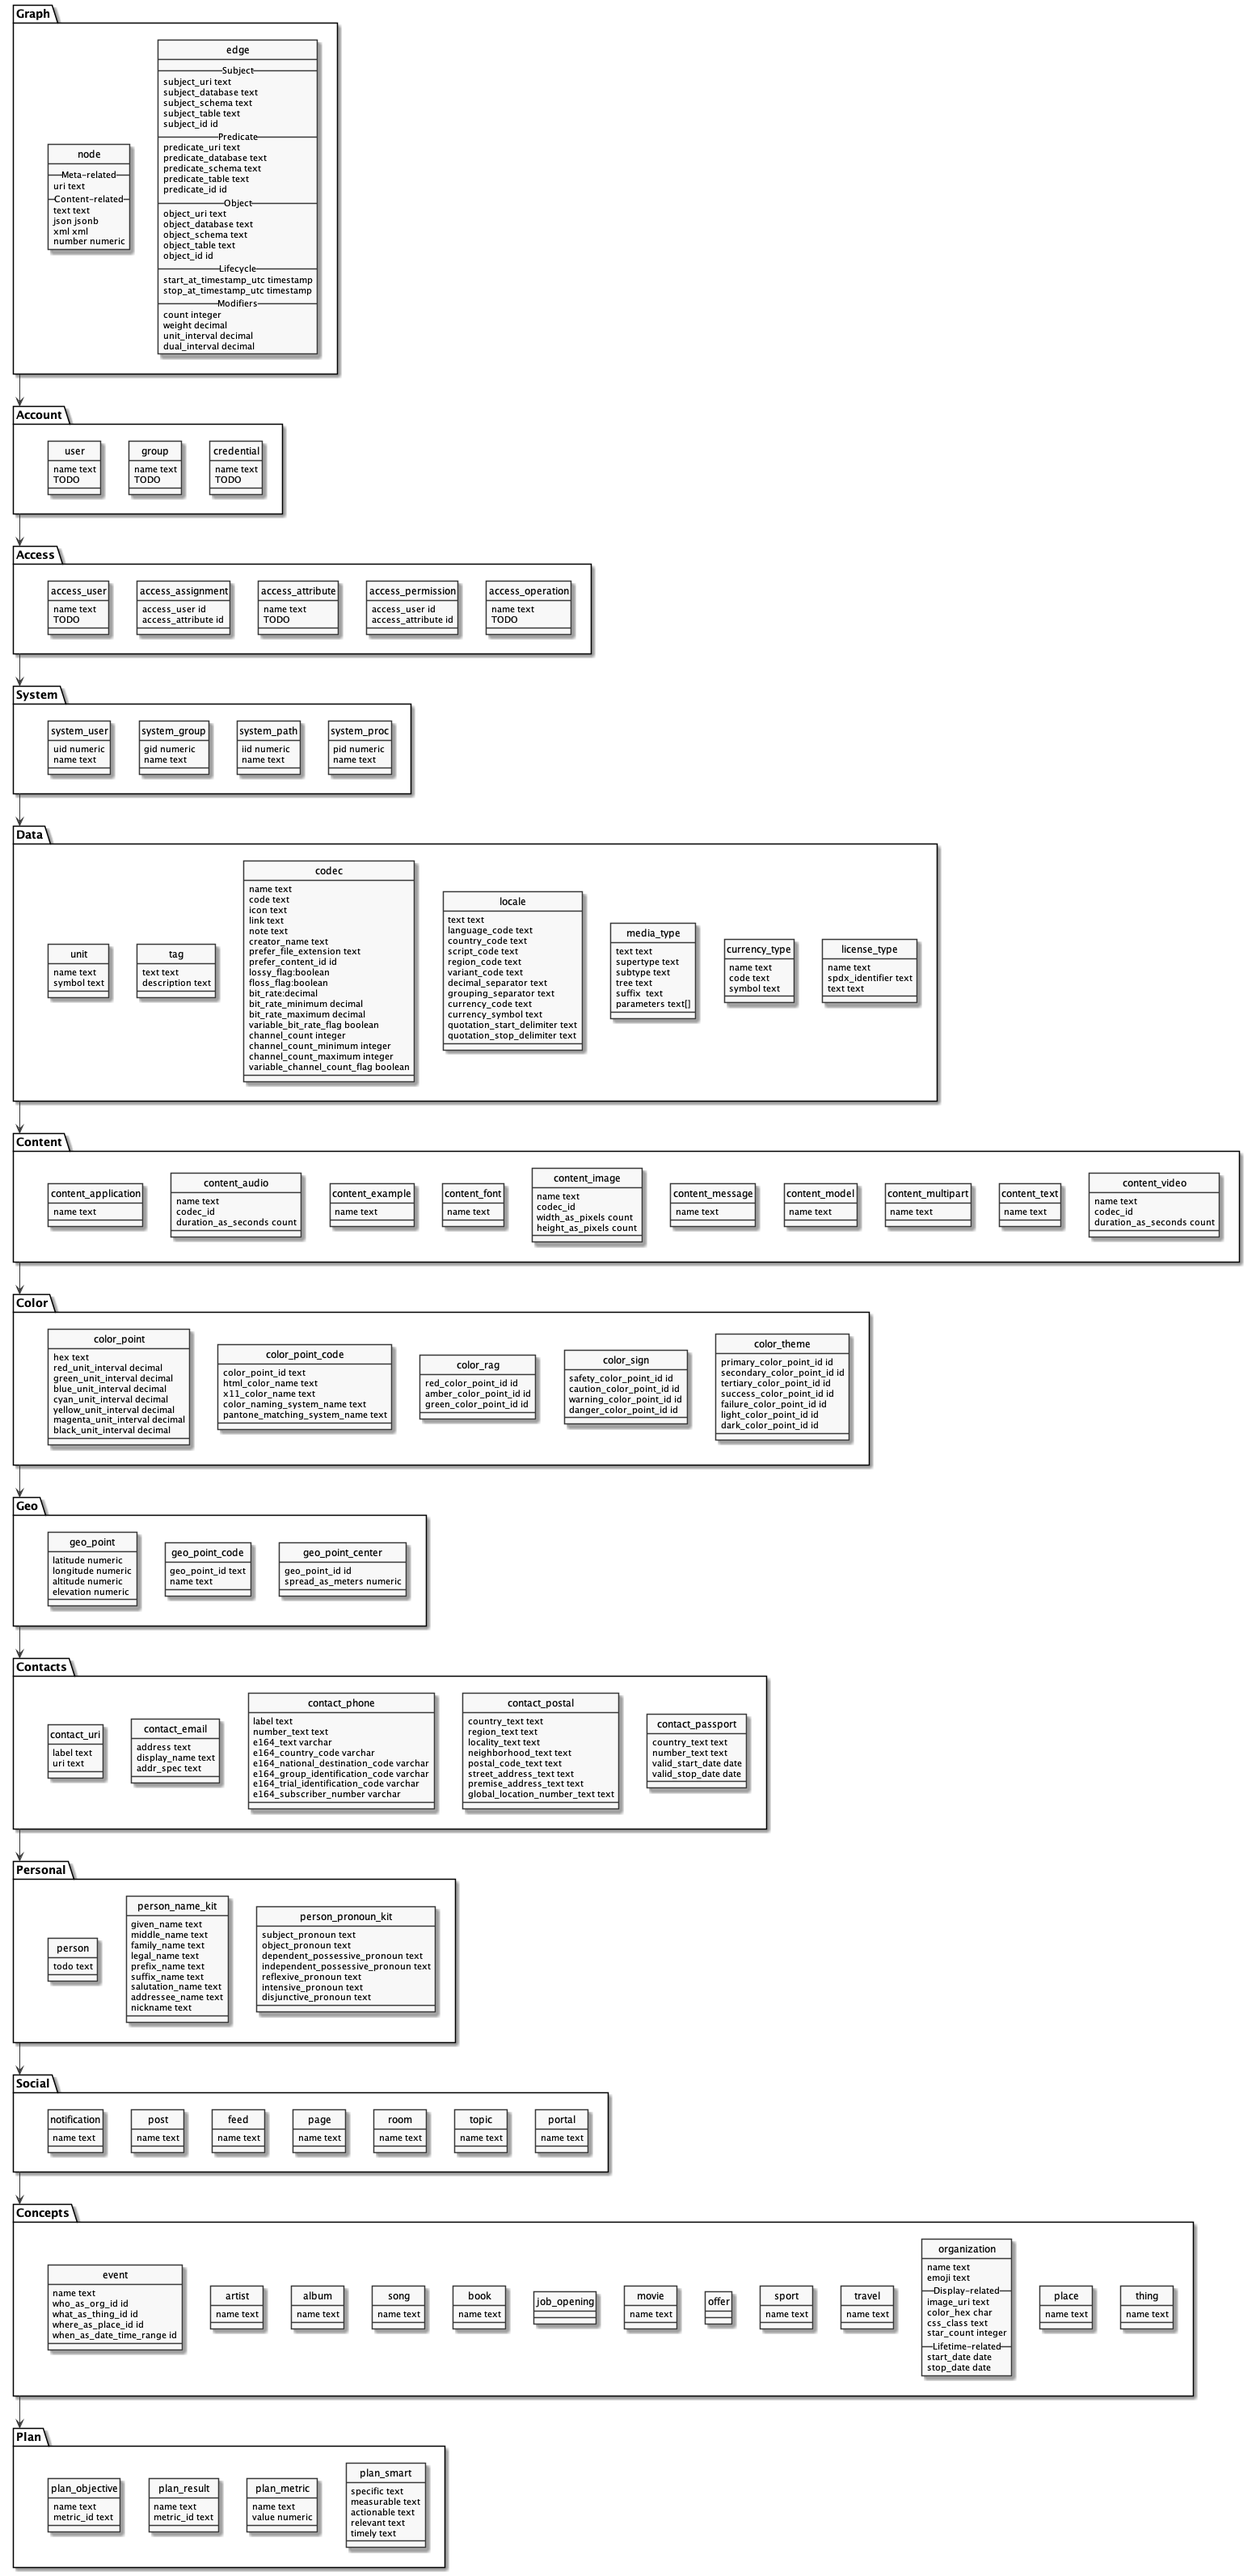
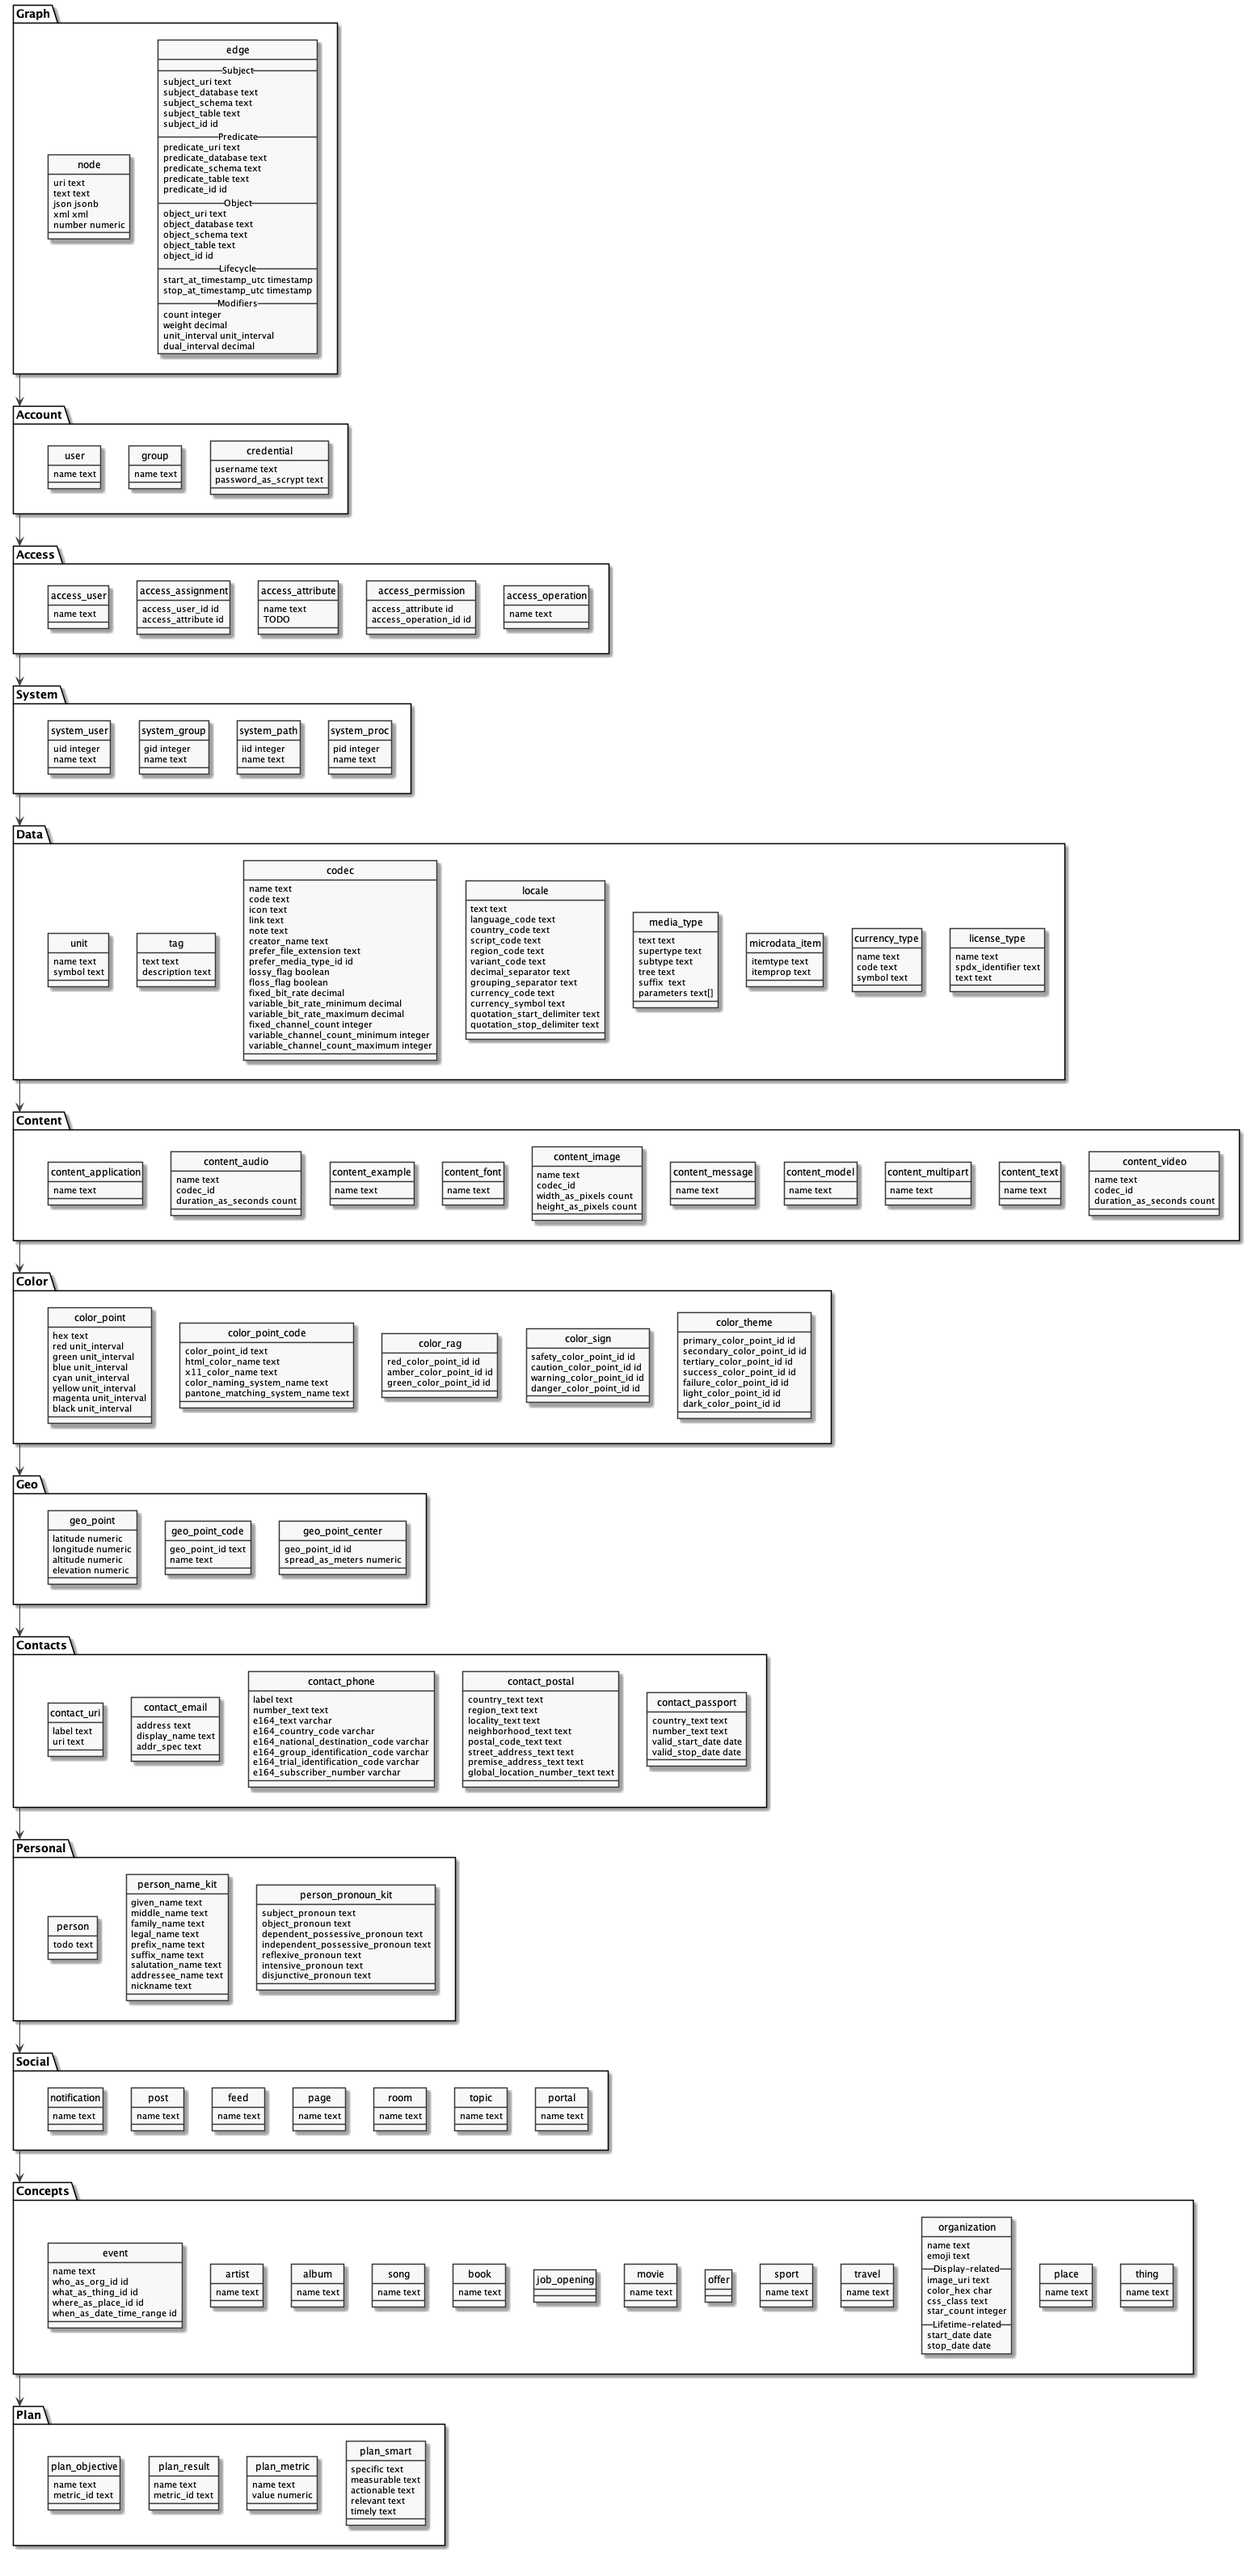
Add microdata

diff --git a/doc/concepts/microdata_item.md b/doc/concepts/microdata_item.md
@@ -1,0 +1,11 @@
+# microdata_item
+
+Specification for identifying content such as text, images, videos, etc. 
+
+See https://en.wikipedia.org/wiki/Microdata_(HTML)
+
+Attributes:
+
+* itemtype: URL --  A valid URL of a vocabulary that describes the item and its properties context. Example: "http://schema.org/Person"
+
+* itemprop: text -- Indicates that its containing tag holds the value of the specified item property. The property's name and value context are described by the item's vocabulary. Properties values usually consist of string values, but can also use URLs using the a element and its href attribute, the img element and its src attribute, or other elements that link to or embed external resources. Example: "name".
